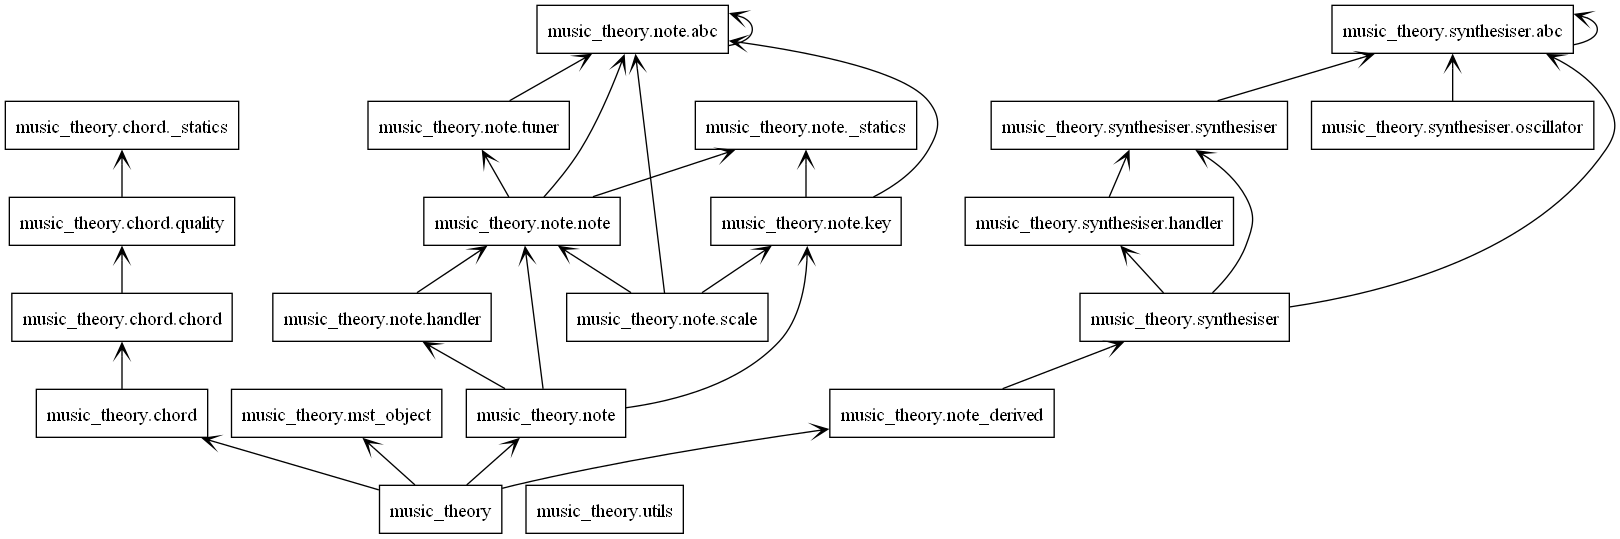
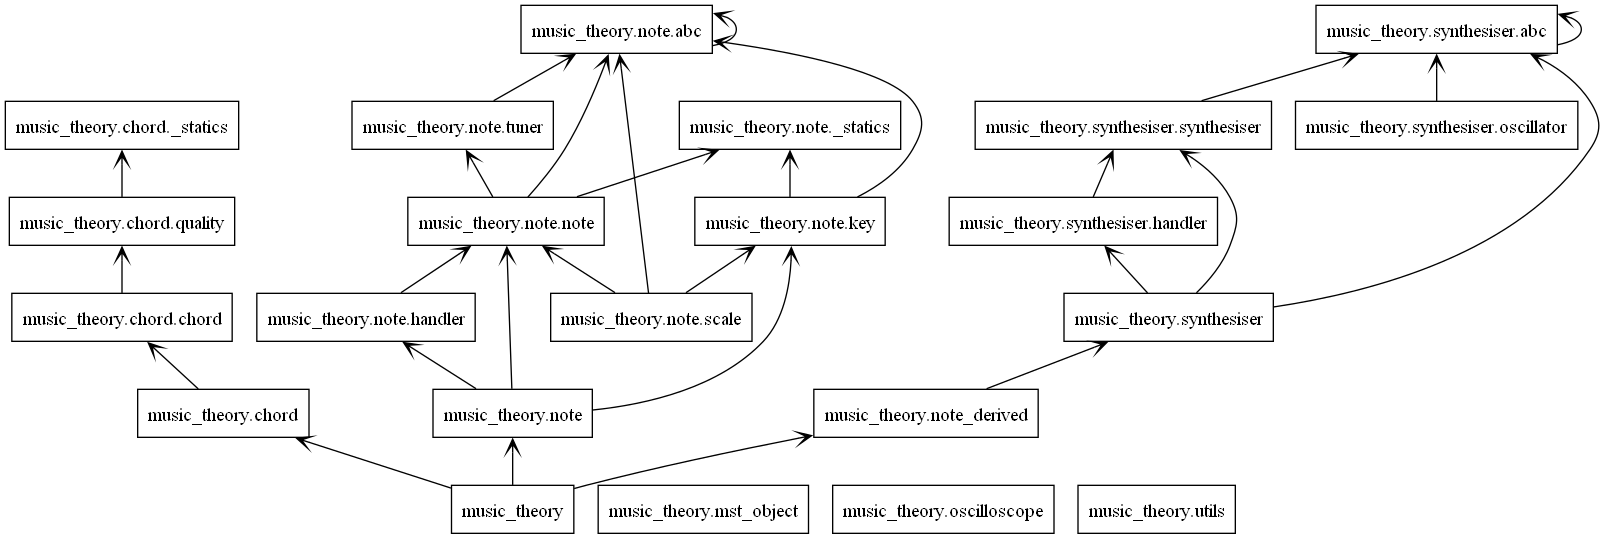
define synthesiser abc and fix related objects

diff --git a/music_theory/synthesiser/abc.py b/music_theory/synthesiser/abc.py
@@ -1,6 +1,6 @@
+import typing as t
 from abc import ABCMeta, abstractmethod
-import os, datetime, wave, pyaudio
-import numpy as np
+from numpy import ndarray
 
 from ..mst_object import MstSubObject
 
@@ -8,10 +8,10 @@ from ..mst_object import MstSubObject
 class Oscillator(metaclass=ABCMeta):
 
     def __init__(self, sampling_hz: int = 44100) -> None:
-        self._sampling_hz = sampling_hz
+        self.sampling_hz = sampling_hz
 
     @abstractmethod
-    def wave(self, hz: float, sec: float) -> np.ndarray:
+    def wave(self, hz: float, sec: float) -> ndarray:
         pass
 
 
@@ -27,53 +27,16 @@ class Modulator(metaclass=ABCMeta):
     pass
 
 
-class SynthesiserObject(MstSubObject, metaclass=ABCMeta):
-
-    amp = pyaudio.PyAudio()
-    osi: Oscillator
-    fil: Filter
-    env: Envelope
-    mod: Modulator
-
-    def __del__(self) -> None:
-        self.amp.terminate()
+class SynthesiserBase(MstSubObject, metaclass=ABCMeta):
 
     @abstractmethod
-    def wave(self, sec: float) -> np.ndarray:
+    def wave(self, hz: float, sec: float, **kwargs: t.Any) -> ndarray:
         pass
 
-    def sound(self, wave_: np.ndarray) -> None:
-        wave_ = wave_ * ((2**15)-1 / np.max(wave_))
-        bin_wave = wave_.astype(np.int16).tobytes()
+    @abstractmethod
+    def play(self, wave_: ndarray, **kwargs: t.Any) -> None:
+        pass
 
-        stream_out = self.amp.open(
-            format=pyaudio.paInt16,
-            channels=1,
-            rate=self.osi._sampling_hz,
-            frames_per_buffer=1024,
-            input=False,
-            output=True,
-            )
-        try:
-            while stream_out.is_active():
-                stream_out.write(bin_wave)
-        except KeyboardInterrupt:
-            pass
-        stream_out.stop_stream()
-        stream_out.close()
-
-    def save(self, path: str, wave_: np.ndarray, hz: float) -> str:
-        now = datetime.datetime.now().strftime(f"%Y%m%d-%H%M%S")
-        path = os.path.join(path, "{}_{}hz_{}.wav".format(self.__class__.__name__, int(hz), now))
-
-        wave_ = wave_ * ((2**15)-1 / np.max(wave_))
-        binary_wave = wave_.astype(np.int16).tobytes()
-
-        file = wave.open(path, mode="wb")
-        param = (1, 2, self.osi._sampling_hz, len(binary_wave), 'NONE', 'not compressed')
-        file.setparams(param)
-        file.writeframes(binary_wave)
-        file.close()
-        return path
-
-
+    @abstractmethod
+    def save(self, path: str, wave_: ndarray, hz: float, **kwargs: t.Any) -> str:
+        pass

diff --git a/music_theory/synthesiser/synthesiser.py b/music_theory/synthesiser/synthesiser.py
@@ -1,7 +1,12 @@
-from .abc import SynthesiserObject, Oscillator, Filter, Envelope, Modulator
+from .abc import SynthesiserBase, Oscillator, Filter, Envelope, Modulator
+import os, datetime, wave, pyaudio, atexit
+import numpy as np
+
+AudioPort = pyaudio.PyAudio()
+atexit.register(lambda : AudioPort.terminate())
 
 
-class Synthesiser(SynthesiserObject):
+class Synthesiser(SynthesiserBase):
 
     def __init__(
             self,
@@ -18,3 +23,37 @@ class Synthesiser(SynthesiserObject):
 
     def wave(self, hz: float, sec: float = 1.):
         return self.osi.wave(hz, sec)
+
+    def play(self, wave_: np.ndarray) -> None:
+        wave_ = wave_ * ((2**15)-1 / np.max(wave_))
+        bin_wave = wave_.astype(np.int16).tobytes()
+
+        stream_out = AudioPort.open(
+            format=pyaudio.paInt16,
+            channels=1,
+            rate=self.osi.sampling_hz,
+            frames_per_buffer=1024,
+            input=False,
+            output=True,
+            )
+        try:
+            while stream_out.is_active():
+                stream_out.write(bin_wave)
+        except KeyboardInterrupt:
+            pass
+        stream_out.stop_stream()
+        stream_out.close()
+
+    def save(self, path: str, wave_: np.ndarray, hz: float) -> str:
+        now = datetime.datetime.now().strftime(f"%Y%m%d-%H%M%S")
+        path = os.path.join(path, "{}_{}hz_{}.wav".format(self.__class__.__name__, int(hz), now))
+
+        wave_ = wave_ * ((2**15)-1 / np.max(wave_))
+        binary_wave = wave_.astype(np.int16).tobytes()
+
+        file = wave.open(path, mode="wb")
+        param = (1, 2, self.osi.sampling_hz, len(binary_wave), 'NONE', 'not compressed')
+        file.setparams(param)
+        file.writeframes(binary_wave)
+        file.close()
+        return path

diff --git a/music_theory/synthesiser/oscillator.py b/music_theory/synthesiser/oscillator.py
@@ -7,28 +7,28 @@ from .abc import Oscillator
 class Sinewave(Oscillator):
 
     def wave(self, hz: float, sec: float = 1.) -> _np.ndarray:
-        t = _np.arange(0, self._sampling_hz*sec)
-        return _np.sin(2 * _np.pi * hz * t / self._sampling_hz)
+        t = _np.arange(0, self.sampling_hz*sec)
+        return _np.sin(2 * _np.pi * hz * t / self.sampling_hz)
 
 class Suqarewave(Oscillator):
 
     def wave(self, hz: float, sec: float = 1.) -> _np.ndarray:
-        t = _np.arange(0, self._sampling_hz*sec)
-        return _sg.square(2 * _np.pi * hz * t / self._sampling_hz)
+        t = _np.arange(0, self.sampling_hz*sec)
+        return _sg.square(2 * _np.pi * hz * t / self.sampling_hz)
 
 class Sawtoothwave(Oscillator):
 
     def wave(self, hz: float, sec: float = 1.) -> _np.ndarray:
-        t = _np.arange(0, self._sampling_hz*sec)
-        return _sg.sawtooth(2 * _np.pi * hz * t / self._sampling_hz) 
+        t = _np.arange(0, self.sampling_hz*sec)
+        return _sg.sawtooth(2 * _np.pi * hz * t / self.sampling_hz) 
 
 class Trianglewave(Oscillator):
 
     def wave(self, hz: float, sec: float = 1.) -> _np.ndarray:
-        t = _np.arange(0, self._sampling_hz*sec)
-        return _sg.sawtooth(2 * _np.pi * hz * t / self._sampling_hz, 0.5)
+        t = _np.arange(0, self.sampling_hz*sec)
+        return _sg.sawtooth(2 * _np.pi * hz * t / self.sampling_hz, 0.5)
 
 class Noisewave(Oscillator):
 
     def wave(self, hz: float, sec: float = 1.) -> _np.ndarray:
-        return _np.random.normal(0, 1, int(self._sampling_hz*sec))
+        return _np.random.normal(0, 1, int(self.sampling_hz*sec))

diff --git a/music_theory/synthesiser/handler.py b/music_theory/synthesiser/handler.py
@@ -1,6 +1,6 @@
 from numpy import ndarray
 
-from .synthesiser import SynthesiserObject
+from .synthesiser import SynthesiserBase
 from ..note import NoteHandlerProxy
 
 
@@ -8,14 +8,14 @@ class SynthesiserHandler(NoteHandlerProxy):
 
     def __init__(self, note_number: int, **kwargs) -> None:
         # mods
-        self.synthe: SynthesiserObject = kwargs.pop("synthe", None)
+        self.synthe: SynthesiserBase = kwargs.pop("synthe", None)
 
         super().__init__(note_number, **kwargs)
 
     def wave(self, sec: float = 1, **kwargs) -> ndarray:
         wave = self.synthe.wave(self.hz, sec)
         if kwargs.pop("sound", False):
-            self.synthe.sound(wave, **kwargs)
+            self.synthe.play(wave, **kwargs)
         if (save := kwargs.pop("save", None)) is not None:
             self.synthe.save(save, wave, self.hz, **kwargs)
         return wave
@@ -23,7 +23,7 @@ class SynthesiserHandler(NoteHandlerProxy):
     def wave_forsound(self, **kwargs) -> ndarray:
         wave = self.synthe.wave(self.hz, 1/self.hz)
         if kwargs.pop("sound", False):
-            self.synthe.sound(wave, **kwargs)
+            self.synthe.play(wave, **kwargs)
         if (path := kwargs.pop("path", None)) is not None:
             self.synthe.save(path, wave, self.hz, **kwargs)
         return wave

diff --git a/music_theory/mst_object.py b/music_theory/mst_object.py
@@ -27,5 +27,5 @@ class MstMainObject(MstObject):
     @property
     def mst_subs(self) -> dict[str, MstSubObject]:
         return dict(
-            *[ [k, v] for k, v in self.__dict__.items() if isinstance(v, MstSubObject)]
+            [ [k, v] for k, v in self.__dict__.items() if isinstance(v, MstSubObject)]
         )

diff --git a/music_theory/synthesiser/__init__.py b/music_theory/synthesiser/__init__.py
@@ -1,4 +1,4 @@
-from .abc import SynthesiserObject
+from .abc import SynthesiserBase
 
 from .synthesiser import Synthesiser
 from .handler import SynthesiserHandler
